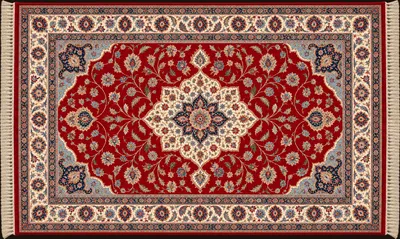
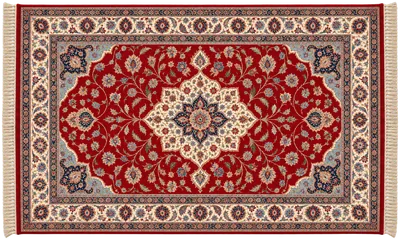
Inspector by hand: drag to turn and it stays, two fingers zoom and move at any angle, push a rolled carpet open or pull the far end into a roll, a finger hint the first few times; Persian carpets as transparent 1024 px pictures; buyer's chips wrap, stall talk box steadier
Claude-Session: https://claude.ai/code/session_01CT1BvnhzMeb2ZoPdnsTssv

diff --git a/src/components/RugViewer/RugViewer.tsx b/src/components/RugViewer/RugViewer.tsx
@@ -42,34 +42,43 @@ export function RugViewer({ uid, preview, onClose }: { uid?: string; preview?: R
   const imgRef = useRef<HTMLImageElement>(null);
   const measure = () => { const el = imgRef.current; if (el && el.offsetWidth) setFit({ w: el.offsetWidth, h: el.offsetHeight }); };
   useEffect(() => { if (imgRef.current?.complete) measure(); }, []);
-  const drag = useRef<{ x: number; y: number; px: number; py: number } | null>(null);
-  const pinch = useRef<{ d: number; z: number } | null>(null);
+  const pinch = useRef<{ d: number; z: number; mx: number; my: number; px: number; py: number } | null>(null);
   const pointers = useRef(new Map<number, { x: number; y: number }>());
-  // turning it over by hand: a drag across spins it round, a drag up or down tips it; let go and it
-  // carries on a little with the flick, then comes back to lie straight as it was
+  // In the hands: one finger turns it (across spins it round, up or down tips it towards you), and it
+  // stays as you leave it; two fingers zoom and move it, at whatever angle it lies; a finger on a rolled
+  // carpet pushes it open, and a finger on its far end pulls it up into a roll.
   const [turn, setTurn] = useState<{ yaw: number; pitch: number } | null>(null);
-  const tw = useRef<{ yaw: number; pitch: number; vy: number; vp: number; t: number; raf: number; grab?: { x: number; y: number; yaw: number; pitch: number; lx: number; ly: number; lt: number; on: boolean } }>({ yaw: 0, pitch: 0, vy: 0, vp: 0, t: 0, raf: 0 });
+  const tw = useRef<{ yaw: number; pitch: number; vy: number; vp: number; raf: number }>({ yaw: 0, pitch: 0, vy: 0, vp: 0, raf: 0 });
+  const grab = useRef<{ kind: 'turn' | 'roll'; x: number; y: number; yaw: number; pitch: number; p0: number; lt: number; v: number; on: boolean } | null>(null);
+  const hand = useRef<number | null>(null); // where a finger holds the roll (0 rolled … 1 flat)
+  const rollAt = useRef(roll ? 0 : 1); // where the roll is now, kept by the drawing
+  const [hint, setHint] = useState(() => { try { const n = +(localStorage.getItem('tof-insp-hint') ?? 0); localStorage.setItem('tof-insp-hint', String(n + 1)); return n < 4; } catch { return false; } });
   useEffect(() => () => cancelAnimationFrame(tw.current.raf), []);
-  const home = () => {
+  const animate = (straighten: boolean) => {
     const w = tw.current, base = (rot * Math.PI) / 180;
     cancelAnimationFrame(w.raf);
     let last = 0;
     const step = (now: number) => {
       const dt = last ? Math.min(0.05, (now - last) / 1000) : 1 / 60;
       last = now;
-      if (Math.abs(w.vy) > 0.6) { w.yaw += w.vy * dt; w.vy *= Math.exp(-2.6 * dt); w.pitch += (0 - w.pitch) * (1 - Math.exp(-3 * dt)); }
-      else {
-        const goal = base + Math.round((w.yaw - base) / (2 * Math.PI)) * 2 * Math.PI;
-        // a weighty spring back: it comes round and settles, no bounce
-        w.vy += ((goal - w.yaw) * 30 - w.vy * 10) * dt; w.yaw += w.vy * dt;
-        w.vp += ((0 - w.pitch) * 30 - w.vp * 10) * dt; w.pitch += w.vp * dt;
-        if (Math.abs(goal - w.yaw) < 0.002 && Math.abs(w.pitch) < 0.002 && Math.abs(w.vy) < 0.02) { w.vy = w.vp = 0; setTurn(null); return; }
+      if (!straighten) {
+        // a flick carries it round a little further, slowing as cloth would on the floor
+        w.yaw += w.vy * dt; w.vy *= Math.exp(-3.2 * dt);
+        setTurn({ yaw: w.yaw, pitch: w.pitch });
+        if (Math.abs(w.vy) > 0.05) w.raf = requestAnimationFrame(step);
+        return;
       }
+      const goal = base + Math.round((w.yaw - base) / (2 * Math.PI)) * 2 * Math.PI;
+      // a weighty spring back: it comes round and settles, no bounce
+      w.vy += ((goal - w.yaw) * 30 - w.vy * 10) * dt; w.yaw += w.vy * dt;
+      w.vp += ((0 - w.pitch) * 30 - w.vp * 10) * dt; w.pitch += w.vp * dt;
+      if (Math.abs(goal - w.yaw) < 0.002 && Math.abs(w.pitch) < 0.002 && Math.abs(w.vy) < 0.02) { w.vy = w.vp = 0; setTurn(null); return; }
       setTurn({ yaw: w.yaw, pitch: w.pitch });
       w.raf = requestAnimationFrame(step);
     };
     w.raf = requestAnimationFrame(step);
   };
+  const straighten = () => { tw.current.vy = tw.current.vp = 0; animate(true); };
   const tut = !g.tutorial.done && !!g.encounter?.tutorial;
   const used = g.tutorial.inspected;
 
@@ -118,56 +127,99 @@ export function RugViewer({ uid, preview, onClose }: { uid?: string; preview?: R
         className="inspector-stage"
         onWheel={(e) => setZ(zoom * (e.deltaY < 0 ? 1.15 : 0.87))}
         onPointerDown={(e) => {
-          if (roll && roll.target === 'flat') { setSkip((k) => k + 1); return; }
-          if (roll) return;
-          (e.target as HTMLElement).setPointerCapture?.(e.pointerId);
+          // the tool buttons keep their own taps (capturing the pointer would take their click away)
+          if ((e.target as Element).closest('button')) return;
+          setHint(false);
+          (e.currentTarget as HTMLElement).setPointerCapture?.(e.pointerId);
           pointers.current.set(e.pointerId, { x: e.clientX, y: e.clientY });
           if (pointers.current.size === 2) {
+            // a second finger: zoom and move, whatever angle it lies at; a roll held by the first is let go
+            const gr = grab.current; grab.current = null;
+            if (gr?.kind === 'roll') { hand.current = null; setRoll({ from: 'rolled', target: rollAt.current > 0.5 ? 'flat' : 'rolled' }); }
+            if (gr?.kind === 'turn' && gr.on) animate(false);
             const [a, b] = [...pointers.current.values()];
-            pinch.current = { d: Math.hypot(a.x - b.x, a.y - b.y), z: zoom };
-            drag.current = null;
-            if (tw.current.grab) { tw.current.grab = undefined; if (turn) home(); }
-          } else {
-            drag.current = { x: e.clientX, y: e.clientY, px: pan.x, py: pan.y };
-            if (zoom === 1) {
-              const w = tw.current; cancelAnimationFrame(w.raf);
-              if (!turn) { w.yaw = (rot * Math.PI) / 180; w.pitch = 0; }
-              w.vy = w.vp = 0;
-              w.grab = { x: e.clientX, y: e.clientY, yaw: w.yaw, pitch: w.pitch, lx: e.clientX, ly: e.clientY, lt: e.timeStamp, on: !!turn };
-            }
+            pinch.current = { d: Math.hypot(a.x - b.x, a.y - b.y), z: zoom, mx: (a.x + b.x) / 2, my: (a.y + b.y) / 2, px: pan.x, py: pan.y };
+            return;
           }
+          if (pointers.current.size > 2) return;
+          const w = tw.current; cancelAnimationFrame(w.raf);
+          const base = { x: e.clientX, y: e.clientY, yaw: w.yaw, pitch: w.pitch, lt: e.timeStamp, v: 0, on: false };
+          if (roll) { grab.current = { kind: 'roll', ...base, p0: rollAt.current }; return; }
+          // the far end of a carpet lying straight: take hold of it and it rolls up under your finger
+          const r = imgRef.current?.getBoundingClientRect();
+          const straight = !turn && rot % 360 === 0 && zoom === 1 && !back;
+          if (straight && r && e.clientX > r.right - r.width * 0.2 && e.clientX < r.right + 24 && e.clientY > r.top - 16 && e.clientY < r.bottom + 16) {
+            grab.current = { kind: 'roll', ...base, p0: 1, on: false };
+            return;
+          }
+          if (!turn) { w.yaw = (rot * Math.PI) / 180; w.pitch = 0; }
+          w.vy = w.vp = 0;
+          grab.current = { kind: 'turn', ...base, yaw: w.yaw, pitch: w.pitch, p0: 1, on: !!turn };
         }}
         onPointerMove={(e) => {
           if (!pointers.current.has(e.pointerId)) return;
           pointers.current.set(e.pointerId, { x: e.clientX, y: e.clientY });
-          if (pinch.current && pointers.current.size === 2) {
+          const pc = pinch.current;
+          if (pc && pointers.current.size === 2) {
             const [a, b] = [...pointers.current.values()];
-            setZ(pinch.current.z * (Math.hypot(a.x - b.x, a.y - b.y) / pinch.current.d));
-          } else if (tw.current.grab && zoom === 1) {
-            const w = tw.current, gr = w.grab!;
-            const dx = e.clientX - gr.x, dy = e.clientY - gr.y;
-            if (!gr.on && Math.hypot(dx, dy) < 7) return;
-            if (!gr.on) { gr.on = true; measure(); mark(); }
-            const dt = Math.max(1, e.timeStamp - gr.lt) / 1000;
-            const yaw = gr.yaw + dx * 0.011, pitch = Math.max(-1.05, Math.min(1.05, gr.pitch + dy * 0.008));
-            w.vy = 0.6 * w.vy + 0.4 * ((yaw - w.yaw) / dt); w.vp = 0;
-            w.yaw = yaw; w.pitch = pitch; gr.lx = e.clientX; gr.ly = e.clientY; gr.lt = e.timeStamp;
-            setTurn({ yaw, pitch });
-          } else if (drag.current && zoom > 1) {
-            setPan({ x: drag.current.px + (e.clientX - drag.current.x), y: drag.current.py + (e.clientY - drag.current.y) });
+            const nz = Math.max(1, Math.min(4, pc.z * (Math.hypot(a.x - b.x, a.y - b.y) / pc.d)));
+            setZoom(nz);
+            setPan({ x: pc.px + ((a.x + b.x) / 2 - pc.mx), y: pc.py + ((a.y + b.y) / 2 - pc.my) });
             mark();
+            return;
           }
+          const gr = grab.current;
+          if (!gr) return;
+          const dx = e.clientX - gr.x, dy = e.clientY - gr.y;
+          if (!gr.on && Math.hypot(dx, dy) < 7) return;
+          const dt = Math.max(1, e.timeStamp - gr.lt) / 1000;
+          if (!gr.on) {
+            gr.on = true; measure(); mark();
+            if (gr.kind === 'roll' && !roll) { hand.current = 1; rollAt.current = 1; setRoll({ from: 'flat', target: 'flat' }); }
+          }
+          if (gr.kind === 'roll') {
+            // the roll follows the finger along the carpet's length
+            const len = (fit?.w ?? 300) * 0.9;
+            const p = Math.max(0, Math.min(1, gr.p0 + dx / len));
+            gr.v = 0.6 * gr.v + 0.4 * ((p - (hand.current ?? p)) / dt);
+            hand.current = p;
+          } else {
+            const w = tw.current;
+            const yaw = gr.yaw + dx * 0.011, pitch = Math.max(-1.05, Math.min(1.05, gr.pitch + dy * 0.008));
+            w.vy = 0.6 * w.vy + 0.4 * ((yaw - w.yaw) / dt);
+            w.yaw = yaw; w.pitch = pitch;
+            setTurn({ yaw, pitch });
+          }
+          gr.lt = e.timeStamp;
         }}
         onPointerUp={(e) => {
           pointers.current.delete(e.pointerId);
           if (pointers.current.size < 2) pinch.current = null;
-          drag.current = null;
-          const gr = tw.current.grab;
-          tw.current.grab = undefined;
-          if (gr?.on) { if (e.timeStamp - gr.lt > 90) tw.current.vy = 0; tw.current.vy = Math.max(-14, Math.min(14, tw.current.vy)); home(); }
+          if (pointers.current.size === 0 && zoom === 1 && !turn) setPan({ x: 0, y: 0 });
+          const gr = grab.current;
+          grab.current = null;
+          if (!gr) return;
+          const late = e.timeStamp - gr.lt > 90;
+          if (gr.kind === 'roll') {
+            if (!gr.on) {
+              // a tap: the opening unroll jumps to its end; a carpet lying rolled lays itself out
+              if (roll?.target === 'flat') setSkip((k) => k + 1);
+              else if (roll) setRoll({ from: 'rolled', target: 'flat' });
+              return;
+            }
+            const p = hand.current ?? rollAt.current, v = late ? 0 : gr.v;
+            hand.current = null;
+            setRoll({ from: 'rolled', target: v > 1.2 ? 'flat' : v < -1.2 ? 'rolled' : p > 0.5 ? 'flat' : 'rolled' });
+            return;
+          }
+          if (gr.on) { if (late) tw.current.vy = 0; tw.current.vy = Math.max(-14, Math.min(14, tw.current.vy)); animate(false); }
         }}
-        onPointerCancel={(e) => { pointers.current.delete(e.pointerId); pinch.current = null; drag.current = null; if (tw.current.grab?.on) home(); tw.current.grab = undefined; }}
-        onDoubleClick={() => setZ(zoom > 1.5 ? 1 : 2.2)}
+        onPointerCancel={(e) => {
+          pointers.current.delete(e.pointerId); pinch.current = null;
+          if (grab.current?.kind === 'roll' && hand.current !== null) { hand.current = null; setRoll({ from: 'rolled', target: rollAt.current > 0.5 ? 'flat' : 'rolled' }); }
+          grab.current = null;
+        }}
+        onDoubleClick={() => { if (turn) { straighten(); setZ(1); } else setZ(zoom > 1.5 ? 1 : 2.2); }}
       >
         {back && <div className="sim-label">Simulated reverse · illustration, not a photograph</div>}
         <img
@@ -181,28 +233,35 @@ export function RugViewer({ uid, preview, onClose }: { uid?: string; preview?: R
           data-zoom={zoom.toFixed(2)}
         />
         {roll && fit && (
-          <RollingRug src={rugSrc(t)} fit={fit} from={roll.from} target={roll.target} skip={skip}
+          <RollingRug src={rugSrc(t)} fit={fit} from={roll.from} target={roll.target} skip={skip} hand={hand} at={rollAt}
             filter={item.condition === 'Dirty' ? 'sepia(0.45) brightness(0.8)' : undefined}
-            onSettled={(at) => { if (at === 'flat') setRoll(null); }} />
+            onSettled={(at) => { if (at === 'flat') { setRoll(null); rollAt.current = 1; } }} />
         )}
         {turn && !roll && fit && (
-          <ExamineRug src={back ? backSrc || rugSrc(t) : rugSrc(t)} fit={fit} yaw={turn.yaw} pitch={turn.pitch}
+          <ExamineRug src={back ? backSrc || rugSrc(t) : rugSrc(t)} fit={fit} yaw={turn.yaw} pitch={turn.pitch} zoom={zoom} pan={pan}
             filter={item.condition === 'Dirty' && !back ? 'sepia(0.45) brightness(0.8)' : undefined} />
+        )}
+        {hint && !counting && (
+          <div className={`insp-hint ${roll ? 'roll' : ''}`} aria-hidden="true" data-testid="insp-hint">
+            <span className="ih-track"><i className="ih-finger" /></span>
+            <small>{roll ? 'Push it open with your finger' : 'Drag to turn it · pinch to zoom · pull the far end to roll it'}</small>
+          </div>
         )}
         <div className="insp-tools">
           <button onClick={() => {
             mark();
             if (roll?.target === 'rolled') { setRoll({ from: 'rolled', target: 'flat' }); return; }
             if (roll) return;
-            setZoom(1); setPan({ x: 0, y: 0 }); setRot(0); setBack(false); measure();
+            setZoom(1); setPan({ x: 0, y: 0 }); setRot(0); setBack(false); cancelAnimationFrame(tw.current.raf); setTurn(null); measure();
             setRoll({ from: 'flat', target: 'rolled' });
           }} aria-label={roll?.target === 'rolled' ? 'Unroll it' : 'Roll it up'} data-testid="roll-toggle"><Icon name="scroll" /></button>
+          {turn && <button className="on" onClick={() => { straighten(); mark(); }} aria-label="Lay it straight" data-testid="straighten"><Icon name="locate" /></button>}
           <button onClick={() => setZ(zoom + 0.5)} aria-label="Zoom in" data-testid="zoom-in"><Icon name="zoomin" /></button>
           <button onClick={() => setZ(zoom - 0.5)} aria-label="Zoom out"><Icon name="zoomout" /></button>
-          <button onClick={() => { setRot((r) => r + 90); mark(); }} aria-label="Rotate" data-testid="rotate"><Icon name="rotate" /></button>
+          <button onClick={() => { if (turn) { tw.current.yaw += Math.PI / 2; setTurn({ yaw: tw.current.yaw, pitch: tw.current.pitch }); } else setRot((r) => r + 90); mark(); }} aria-label="Rotate" data-testid="rotate"><Icon name="rotate" /></button>
           <button onClick={() => { setBack((b) => !b); mark(); }} aria-label={back ? 'Show front' : 'Show reverse'} data-testid="flip"><Icon name="flip" /></button>
         </div>
-        <div className="insp-zoom">{roll ? (roll.target === 'rolled' ? 'Rolled up · the roll button lays it out again' : 'Unrolling · tap to skip') : <>{back ? 'Reverse (simulated)' : 'Front'} · {zoom.toFixed(1)}×{zoom === 1 ? ' · drag to turn it, pinch to zoom' : ' · drag to pan'}</>}</div>
+        <div className="insp-zoom">{roll ? (roll.target === 'rolled' ? 'Rolled up · push it open, or the roll button' : 'Unrolling · tap to skip, or take hold of it') : <>{back ? 'Reverse (simulated)' : 'Front'} · {zoom.toFixed(1)}×{turn ? ' · double-tap to lay it straight' : ' · drag to turn, pinch to zoom'}</>}</div>
       </div>
       <div className="insp-panel">
         <div className="tabs" role="tablist">

diff --git a/src/components/StallEncounter/StallEncounter.tsx b/src/components/StallEncounter/StallEncounter.tsx
@@ -23,7 +23,7 @@ import { audio } from '../../game/audio/engine';
 import './stall-fixes.css';
 
 // the most height the talk and the buttons under the stall picture have needed, per screen size
-const REST_KEY = 'tof-stall-rest';
+const REST_KEY = 'tof-stall-rest2';
 let restMemo: Record<string, number> | null = null;
 function restMost(key: string) {
   if (!restMemo) { try { restMemo = JSON.parse(localStorage.getItem(REST_KEY) || '{}'); } catch { restMemo = {}; } }
@@ -84,7 +84,7 @@ export function StallEncounter({ onGoto, onLeaveAudience }: { onGoto?: (t: 'supp
     // The talk under the picture (the line, the narrator, the buyer's plate) takes the height of the
     // longest it has been this visit, so the picture does not jump with every line; any height the
     // band is given beyond its words is kept between the line and the buyer's plate.
-    let bandMost = 0;
+    let bandMost = 0, bandSeen = 0, spare = 0;
     const locked = { key: '', enc: '', h: 0 };
     const fit = () => {
       let rest = 0, bandNow = bandMost;
@@ -96,16 +96,17 @@ export function StallEncounter({ onGoto, onLeaveAudience }: { onGoto?: (t: 'supp
           const kids = (Array.from(c.children) as HTMLElement[]).filter((k) => getComputedStyle(k).position !== 'absolute' && getComputedStyle(k).position !== 'fixed' && k.getBoundingClientRect().height > 0);
           const own = kids.reduce((a, k) => a + k.getBoundingClientRect().height, 0) + Math.max(0, kids.length - 1) * (parseFloat(st.rowGap) || 0)
             + parseFloat(st.paddingTop) + parseFloat(st.paddingBottom) + parseFloat(st.borderTopWidth) + parseFloat(st.borderBottomWidth);
-          // from the first line on, room is kept for a usual exchange (three lines said and two of the
-          // narrator's) so the picture is sized once and does not shrink as the talk fills in
+          // from the first line on, room is kept for a usual exchange (three lines said) so the picture is sized once and does not shrink as the talk fills in
           let floor = 0;
           // (on a tall phone only: a short one keeps every pixel it can for the picture)
-          if (el.clientWidth < 600 && el.clientHeight > 780) {
+          if (el.clientWidth < 600 && el.clientHeight > 680) {
             const plate = c.querySelector('.plate-buyer') as HTMLElement | null;
-            floor = (plate?.getBoundingClientRect().height ?? 0) + 15.5 * 1.3 * 3 + 18 + 4 + 14 * 1.3 * 2 + 9 + 2 * (parseFloat(st.rowGap) || 0)
+            floor = (plate?.getBoundingClientRect().height ?? 0) + 15.5 * 1.3 * 3 + 18 + 4 + 2 * (parseFloat(st.rowGap) || 0)
               + parseFloat(st.paddingTop) + parseFloat(st.paddingBottom);
           }
           bandMost = Math.max(bandMost, Math.ceil(own), Math.ceil(floor));
+          spare = Math.max(0, bandMost - Math.max(Math.ceil(own), bandSeen));
+          bandSeen = Math.max(bandSeen, Math.ceil(own));
           bandNow = Math.ceil(own);
           rest += bandMost;
           continue;
@@ -128,7 +129,8 @@ export function StallEncounter({ onGoto, onLeaveAudience }: { onGoto?: (t: 'supp
       if (most > restMost(key)) keepRestMost(key, most);
       if (locked.key !== key || locked.enc !== enc?.id) {
         locked.key = key; locked.enc = enc?.id ?? '';
-        locked.h = Math.max(96, Math.min(natural, el.clientHeight - most));
+        // the room kept ahead for longer lines never squeezes the picture below 200px (heads and all)
+        locked.h = Math.max(96, Math.min(natural, el.clientHeight - most), Math.min(natural, el.clientHeight - (most - spare), 200));
       }
       // never at the cost of the buttons: if the talk has grown past what was kept for it, give way
       if (el.clientHeight - locked.h < rest - 1) locked.h = Math.max(96, el.clientHeight - rest);

diff --git a/src/styles.css b/src/styles.css
@@ -3294,5 +3294,29 @@ body.travelling .world-hud { display: none; }
 /* the talk under the picture on a phone: every line starts at the same edge, the said line on top,
    the stage direction under it, and the buyer's plate always at the foot of the band */
 .stall.in-talk > .band > .caption { text-align: left; padding: 0 0 0 11px; font-size: 14.5px; line-height: 1.3; color: var(--parchment-2); }
-.stall.in-talk > .band > .plate-buyer { margin-top: auto !important; padding-top: 4px; }
+.stall.in-talk > .band > .plate-buyer { order: -1; margin: 0 0 2px !important; padding-bottom: 6px; border-bottom: 1px solid rgba(201,151,74,.18); }
+/* the buyer's chips wrap under the name instead of sliding off the edge (large phone text included) */
+.stall.in-talk .band .plate-buyer .values { flex-wrap: wrap; overflow: visible; }
+.stall.in-talk .band .plate-row { flex-wrap: wrap; white-space: normal; }
+.stall.in-talk .band .plate-row .name { white-space: nowrap; overflow: hidden; text-overflow: ellipsis; max-width: 100%; }
+.quick-sale { min-width: 0; overflow: hidden; }
+.quick-sale small { min-width: 0; overflow: hidden; text-overflow: ellipsis; white-space: nowrap; }
 .stall.in-talk > .band > .speech + .caption, .stall.in-talk > .band > .speech + .narrator { margin-top: 2px; }
+
+/* the inspector's first few openings: a finger shows what the hands can do, gone at the first touch */
+.insp-hint { position: absolute; left: 50%; bottom: 44px; transform: translateX(-50%); z-index: 3; pointer-events: none; display: flex; flex-direction: column; align-items: center; gap: 6px; padding: 8px 14px 7px; border-radius: 14px; background: rgba(14,9,5,.72); border: 1px solid rgba(231,189,110,.35); animation: ih-in .4s ease both .6s; }
+.insp-hint small { font-family: var(--label); font-size: 12.5px; letter-spacing: .04em; color: var(--parchment); white-space: nowrap; }
+.ih-track { position: relative; width: 120px; height: 22px; border-radius: 11px; background: linear-gradient(90deg, transparent, rgba(231,189,110,.22), transparent); }
+.ih-track::before, .ih-track::after { content: ''; position: absolute; top: 50%; width: 0; height: 0; border: 6px solid transparent; margin-top: -6px; }
+.ih-track::before { left: -4px; border-right-color: rgba(231,189,110,.8); }
+.ih-track::after { right: -4px; border-left-color: rgba(231,189,110,.8); }
+.ih-finger { position: absolute; top: 2px; left: 50%; width: 18px; height: 18px; margin-left: -9px; border-radius: 50%; background: rgba(255,240,210,.9); box-shadow: 0 0 0 4px rgba(255,240,210,.25); animation: ih-swipe 1.8s ease-in-out infinite; }
+.insp-hint.roll .ih-track::before { display: none; }
+.insp-hint.roll .ih-finger { animation: ih-push 1.6s ease-in-out infinite; }
+@keyframes ih-swipe { 0%, 100% { transform: translateX(-44px); } 50% { transform: translateX(44px); } }
+@keyframes ih-push { 0% { transform: translateX(-48px); opacity: 0; } 15% { opacity: 1; } 80% { transform: translateX(44px); opacity: 1; } 100% { transform: translateX(44px); opacity: 0; } }
+@keyframes ih-in { from { opacity: 0; transform: translate(-50%, 6px); } to { opacity: 1; transform: translate(-50%, 0); } }
+.insp-tools button.on { border-color: var(--brass-hi, #e7bd6e); }
+@media (max-width: 380px) { .insp-hint small { white-space: normal; text-align: center; max-width: 240px; } }
+/* transparent carpet pictures: the shadow follows the rug and its fringe, not a box round it */
+.inspector-stage img[src$=".webp"] { box-shadow: none; filter: drop-shadow(0 18px 22px rgba(0,0,0,.55)); }

diff --git a/src/components/RugViewer/RollingRug.tsx b/src/components/RugViewer/RollingRug.tsx
@@ -23,9 +23,13 @@ export interface RollingRugProps {
   onSettled: (at: 'flat' | 'rolled') => void;
   /** a tap: jump to the end */
   skip?: number;
+  /** a finger holding the roll: while set, the carpet is exactly this far open (0 rolled, 1 flat) */
+  hand?: { current: number | null };
+  /** told, every frame, how far open it is */
+  at?: { current: number };
 }
 
-export function RollingRug({ src, fit, target, from, filter, onSettled, skip = 0 }: RollingRugProps) {
+export function RollingRug({ src, fit, target, from, filter, onSettled, skip = 0, hand, at }: RollingRugProps) {
   const cv = useRef<HTMLCanvasElement>(null);
   const st = useRef({ p: from === 'flat' ? 1 : 0, v: 0, settle: 0, settleAmp: 0, done: false, sound: false });
   const tgt = useRef(target);
@@ -50,6 +54,17 @@ export function RollingRug({ src, fit, target, from, filter, onSettled, skip = 0
       last = now;
       const s = st.current;
       const goal = tgt.current === 'flat' ? 1 : 0;
+      const held = hand?.current;
+      if (held != null) {
+        // under the finger: no spring, it is where the hand has it, and lets go with the hand's speed
+        const np = Math.max(0, Math.min(1, held));
+        s.v = 0.5 * s.v + 0.5 * ((np - s.p) / dt);
+        s.p = np; s.done = false; s.settle = 0; s.sound = true;
+        if (at) at.current = s.p;
+        draw(s.p, 0);
+        raf = requestAnimationFrame(frame);
+        return;
+      }
       if (!s.done) {
         if (!s.sound && Math.abs(goal - s.p) > 0.05) { s.sound = true; audio.sfx('unfold'); }
         [s.p, s.v] = springStep(s.p, s.v, goal, dt, 4.4, 0.8);
@@ -66,6 +81,7 @@ export function RollingRug({ src, fit, target, from, filter, onSettled, skip = 0
           return;
         }
       }
+      if (at) at.current = s.p;
       draw(s.p, s.settle > 0 ? s.settleAmp * Math.exp(-s.settle * 5.5) * Math.sin(s.settle * 15) : 0);
       raf = requestAnimationFrame(frame);
     };

diff --git a/src/components/RugViewer/ExamineRug.tsx b/src/components/RugViewer/ExamineRug.tsx
@@ -6,7 +6,7 @@ import { useEffect, useRef } from 'react';
 
 const F = 2.4; // camera distance in carpet lengths
 
-export function ExamineRug({ src, fit, yaw, pitch, filter }: { src: string; fit: { w: number; h: number }; yaw: number; pitch: number; filter?: string }) {
+export function ExamineRug({ src, fit, yaw, pitch, filter, zoom = 1, pan = { x: 0, y: 0 } }: { src: string; fit: { w: number; h: number }; yaw: number; pitch: number; filter?: string; zoom?: number; pan?: { x: number; y: number } }) {
   const cv = useRef<HTMLCanvasElement>(null);
   const img = useRef<HTMLImageElement | null>(null);
   const draw = () => {
@@ -19,14 +19,14 @@ export function ExamineRug({ src, fit, yaw, pitch, filter }: { src: string; fit:
     if (c.width !== Math.round(W * dpr) || c.height !== Math.round(H * dpr)) { c.width = Math.round(W * dpr); c.height = Math.round(H * dpr); }
     g.setTransform(dpr, 0, 0, dpr, 0, 0);
     g.clearRect(0, 0, W, H);
-    const iw = im.naturalWidth, ih = im.naturalHeight, wz = ih / iw, S = fit.w;
+    const iw = im.naturalWidth, ih = im.naturalHeight, wz = ih / iw, S = fit.w * zoom;
     const cy = Math.cos(yaw), sy = Math.sin(yaw), cp = Math.cos(pitch), spp = Math.sin(pitch);
     // the carpet lies in x (length) and z (width); spin it round the upright axis, then tip it about the screen's horizontal
     const proj = (x: number, z: number) => {
       const X = x * cy - z * sy, Z = x * sy + z * cy;
       const sy2 = Z * cp, depth = -Z * spp; // toward the camera
       const k = F / (F - depth);
-      return { x: W / 2 + X * S * k, y: H / 2 + sy2 * S * k };
+      return { x: W / 2 + pan.x + X * S * k, y: H / 2 + pan.y + sy2 * S * k };
     };
     // which side faces us: the pile, or the back
     const facing = cp >= 0;

diff --git a/src/data/rugs.ts b/src/data/rugs.ts
@@ -16,7 +16,8 @@ export const PERSIAN_PHOTOS: string[] = [
   'persian-afshar', 'persian-bakhtiari', 'persian-baluch', 'persian-hamadan', 'persian-heriz', 'persian-isfahan', 'persian-joshaghan', 'persian-kashan', 'persian-kerman', 'persian-mashhad', 'persian-qashqai', 'persian-sarouk', 'persian-senneh', 'persian-tabriz',
 ];
 const persian = (id: string, seed: number, layout: 'medallion' | 'lattice' | 'kilim', palette: string[], d: Def): [string, RugType] => (PERSIAN_PHOTOS.includes(id)
-  ? rug(id, d)
+  // transparent pictures (no ground behind the rug and its fringe), 1024 px, at art/rugs/<id>.webp
+  ? [id, { id, ...d, rarity: RARITY[d.tier], art: { kind: 'photo', src: `art/rugs/${id}.webp` } }]
   : [id, { id, ...d, rarity: RARITY[d.tier], art: { kind: 'woven', seed, layout, palette } }]);
 
 const knots = {

diff --git a/src/components/RugViewer/rugArt.ts b/src/components/RugViewer/rugArt.ts
@@ -269,7 +269,7 @@ export function rugSrc(t: RugType): string {
 export function rugThumb(t: RugType): string {
   if (t.art.kind === 'design') return renderDesign(t.art.design, 400, 0.85);
   if (t.art.kind !== 'photo') return wovenRug(t);
-  const m = /^art\/rugs\/([^/]+)\.jpg$/.exec(t.art.src);
+  const m = /^art\/rugs\/([^/]+)\.(jpg|webp)$/.exec(t.art.src);
   return m ? `art/rugs/thumbs/${m[1]}.webp` : t.art.src;
 }
 
